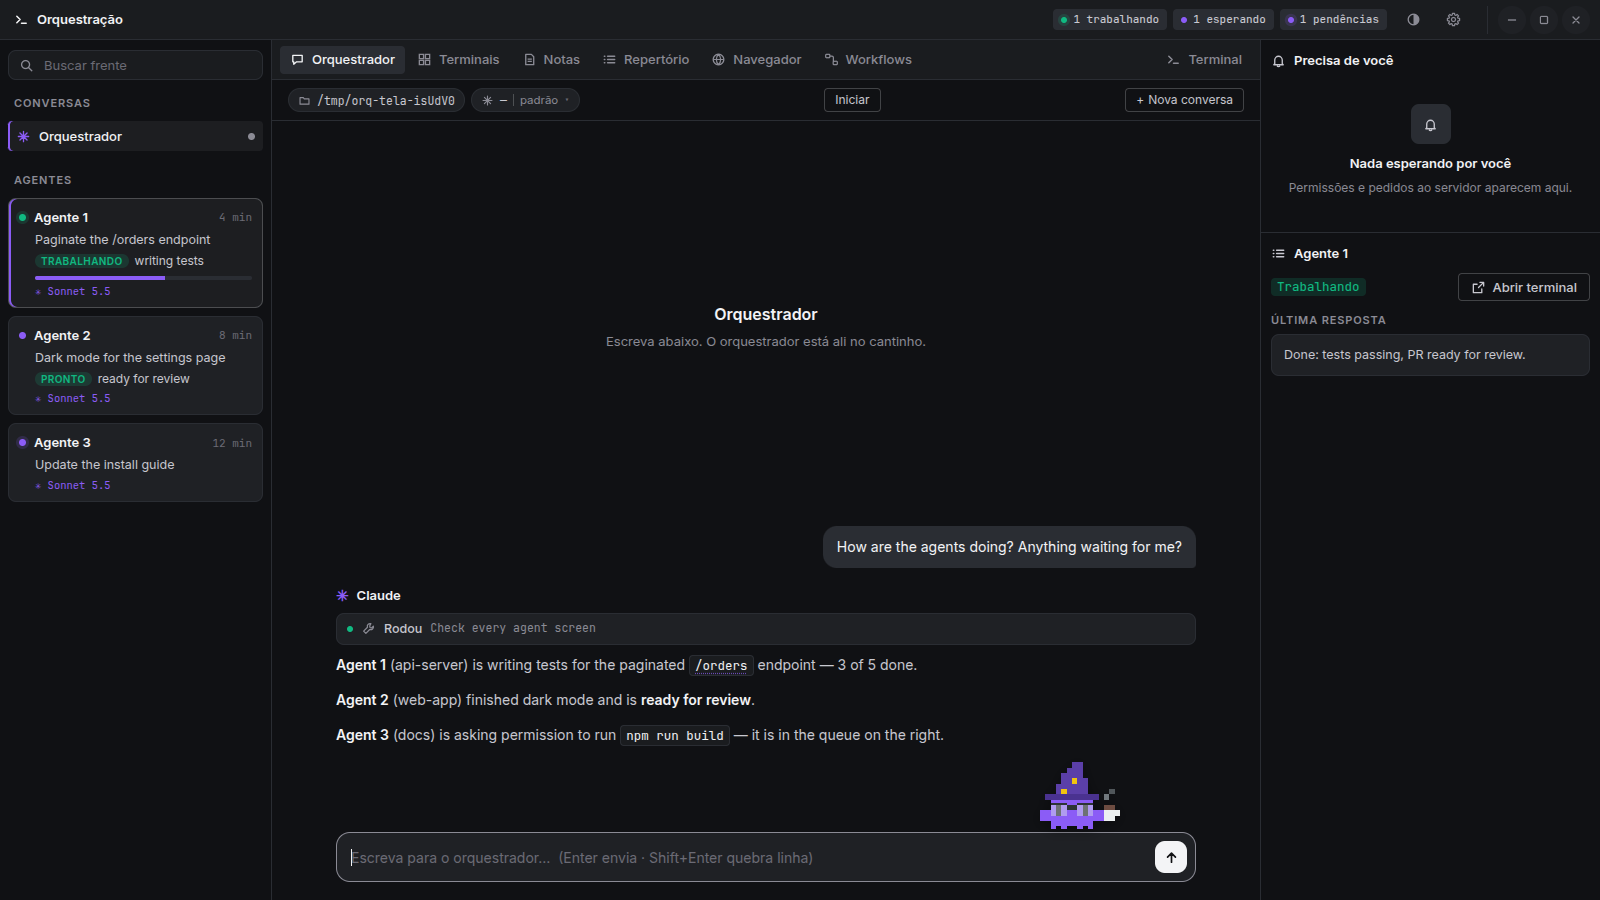
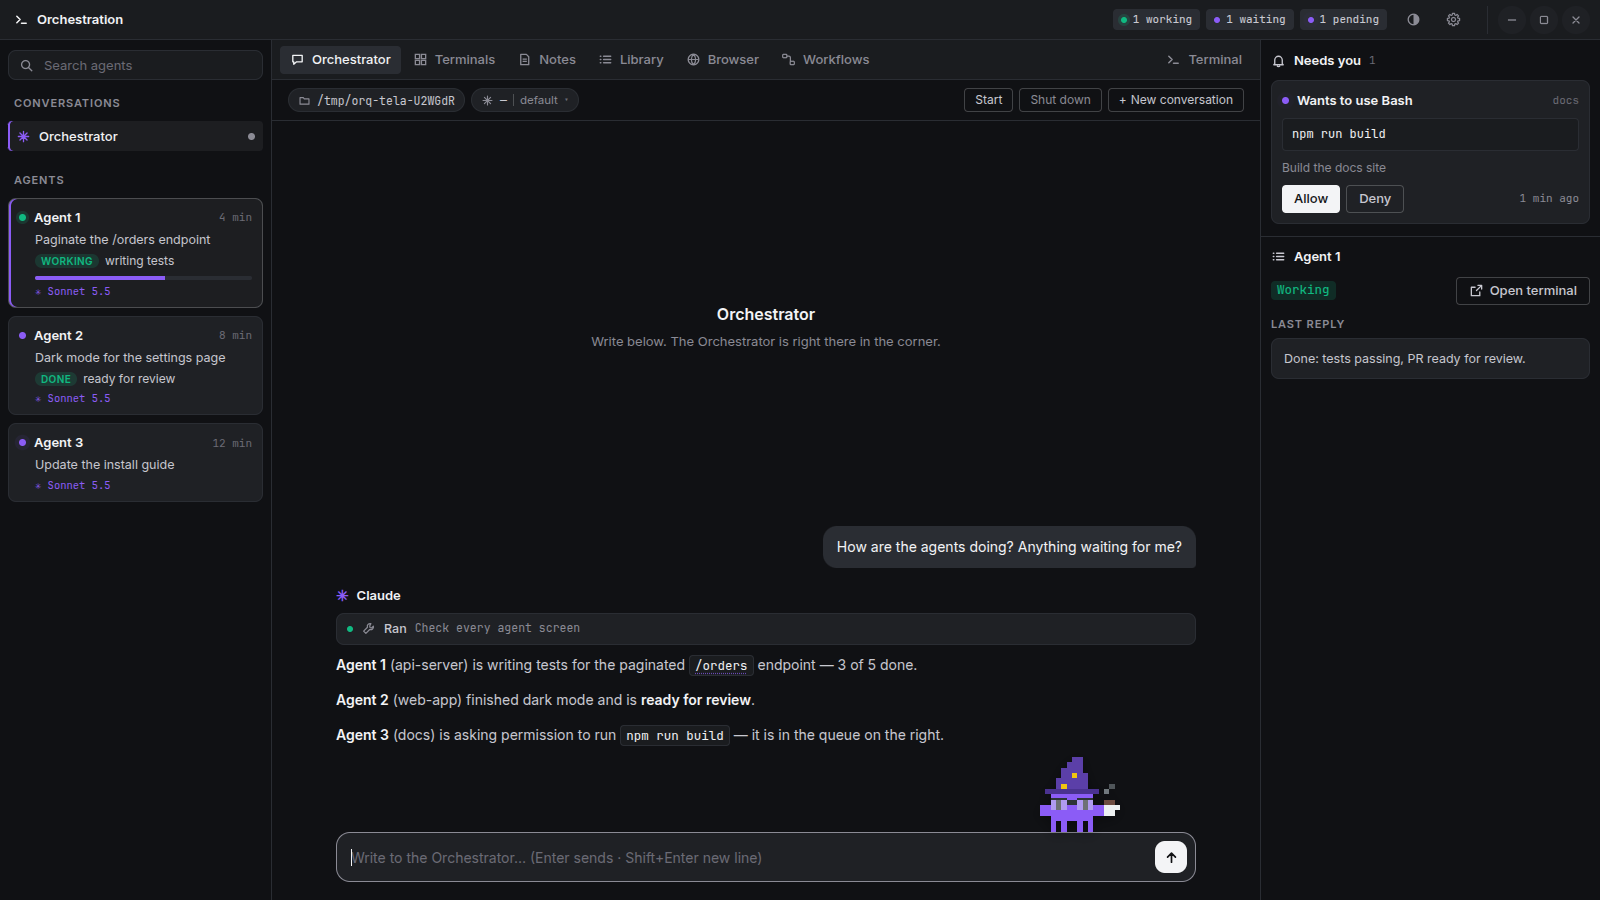
README: full tour of every tab with English screenshots; configuration guide documents the language option

diff --git a/README.md b/README.md
@@ -10,77 +10,141 @@ automate your machine with visual workflows — and meet the little pixel helper
 ![Electron](https://img.shields.io/badge/Electron-45-47848F?logo=electron&logoColor=white)
 ![Platform](https://img.shields.io/badge/platform-Linux-FCC624?logo=linux&logoColor=black)
 ![Claude Code](https://img.shields.io/badge/built%20for-Claude%20Code-D97757)
+![Languages](https://img.shields.io/badge/UI-English%20%7C%20Portugu%C3%AAs-3b82f6)
 ![License](https://img.shields.io/badge/license-MIT-22a06b)
-![Status](https://img.shields.io/badge/status-daily--driver%20prototype-8b5cf6)
 
-<img src="docs/images/conversation.png" alt="The orchestrator conversation, with agents on the left and the pixel helper in the corner" width="900">
+<img src="docs/images/conversation.png" alt="The orchestrator conversation, with agents on the left, the queue on the right and the pixel helper in the corner" width="900">
+
+[Why](#why) · [Tour](#a-tour-of-the-app) · [Getting started](#getting-started) · [Configuration](#configuration) · [Project structure](#project-structure) · [Tests](#tests)
 
 </div>
 
-> [!NOTE]
-> The interface is in **Portuguese** for now (it is used daily by a Portuguese-speaking team).
-> The code, the configuration keys and the file names follow the same language. Contributions
-> towards i18n are welcome.
-
 ## Why
 
-Running several [Claude Code](https://claude.com/claude-code) agents in parallel quickly turns into
-a wall of terminals. Orquestrador keeps the agents exactly where they already work — `tmux` sessions,
-ideally inside devcontainers — and puts a calm shell on top: one place to talk to the orchestrator,
-see who is doing what, and act on whatever is waiting for you. Closing the app never stops an agent.
+Running several [Claude Code](https://claude.com/claude-code) agents in parallel quickly turns into a wall
+of terminals. Orquestrador keeps the agents exactly where they already work — `tmux` sessions, ideally
+inside devcontainers — and puts a calm shell on top: one place to talk to the orchestrator, see who is
+doing what, and act on whatever is waiting for you. Closing the app never stops an agent.
 
-## Features
+The app speaks **English and Portuguese** — switch in ⚙ Settings → *App language*.
 
-| | |
-|---|---|
-| 💬 **Orchestrator chat** | Claude runs headless (`stream-json`, the Agent SDK protocol): bubbles, Markdown, collapsible tool calls, question cards, Allow/Deny for permissions, `/command` autocomplete, model and effort switcher. A **Start** button opens a round; **Shut down** closes it safely. |
-| 🧭 **Agents at a glance** | Every agent with its state (working, waiting, asking permission), current task, progress and model. A queue gathers permissions and requests in one place. |
-| 🖥 **Terminals** | Up to 4 in a grid, including attached to an agent's own `tmux` session. |
-| 📝 **Notes** | Notion-style Markdown editor (blocks, `/` menu, tasks, tables) over the folders you choose; autosaves and keeps versions. |
-| 🧰 **Skill library** | Finds the skills, commands, sub-agents and prompts you created across Claude Code, Codex, Gemini CLI, OpenCode, Windsurf and Cursor. `//name` in the chat uses any of them. |
-| 🌐 **Browser** | Up to 4 side-by-side windows, each as Chrome, Firefox, Edge or a phone (iPhone, Android). The orchestrator drives the same windows through `orq-nav` (open, read, click, type, screenshot) while you watch. |
-| ⚡ **Workflows** | n8n-style visual automations — see below. |
-| 👾 **Desktop helper** | The orchestrator as a pixel pet — see below. |
-| 🎨 **Looks** | Light and dark themes, accent color of your choice. |
+## A tour of the app
+
+The window has three columns: **conversations and agents** on the left, the **current tab** in the
+middle, and **Needs you** (the queue) plus the selected agent's details on the right.
+
+### 💬 Orchestrator
+
+The conversation with the orchestrator — Claude running headless (`stream-json`, the Agent SDK
+protocol), so there is no terminal to babysit.
+
+- Markdown answers, collapsible tool calls (*Ran …*, *Read …*), question cards with clickable options,
+  **Allow / Deny** on permission requests, `/command` autocomplete.
+- Model and effort switcher, context and usage meters (5-hour and 7-day windows) in the top bar.
+- **Start** sends your round-opening command (e.g. a skill of yours); **Shut down** ends the round safely.
+- Paste screenshots straight into the chat; `//skill` uses anything from the Library; `@note:` and
+  `@workflow:` attach a note or a workflow; code blocks have *Copy* and *▶ Terminal*.
+- **New conversation** opens side conversations next to the orchestrator.
+
+### 🧭 Agents and *Needs you*
+
+Every agent appears in the left column with its state (working, waiting for you, asking permission),
+its current task, a progress bar and its model. Click one to see its last reply and timeline on the
+right, or open its terminal. **Needs you** gathers every permission request and pending question from
+all agents into one queue with buttons.
+
+### 🖥 Terminals
+
+Up to four terminals in a grid, including ones attached to an agent's own `tmux` session — plus a spare
+shell in the **Terminal** tab on the right.
+
+### 📝 Notes
+
+<img src="docs/images/notes.png" alt="Notes: a Notion-style Markdown editor" width="900">
+
+A Notion-style Markdown editor over the folders you choose: blocks, `/` menu, checklists, tables,
+callouts, images. It autosaves and keeps every previous version.
+
+### 📚 Library
+
+<img src="docs/images/library.png" alt="Library: skills, commands and sub-agents found across AI tools" width="900">
+
+Finds what you created in each AI tool — skills, commands, sub-agents, prompts and workflows from Claude
+Code, Codex, Gemini CLI, OpenCode, Windsurf and Cursor — and lets you add your own shortcuts (optionally
+bound to <kbd>Ctrl</kbd>+<kbd>Alt</kbd>+<kbd>1…9</kbd>). Type `//name` in any conversation to use one;
+skills from other tools are sent with their instructions so any model can follow them.
+
+### 🌐 Browser
+
+<img src="docs/images/browser.png" alt="Browser: two windows side by side, desktop Chrome and an iPhone" width="900">
+
+Up to four windows side by side, each presenting itself as Chrome, Firefox, Edge or a phone (iPhone,
+Android — with the real phone viewport). The orchestrator drives the **same** windows through
+`orq-nav` — open, read, list elements, click, type, take screenshots — and a badge shows, live, what it
+is doing. Windows come back when you reopen the app.
 
 ### ⚡ Workflows
 
 <img src="docs/images/workflow-editor.png" alt="Workflow editor: a folder trigger feeding a command, Claude, and file and notification steps" width="900">
 
-Draw automations as connected steps. The output of one step is the input of the next (`{{entrada}}`).
+n8n-style automations for your machine. The home screen lists **Workflows**, **Credentials** and
+**Runs**; opening a workflow shows a full-screen canvas.
 
-- **Triggers:** a clock (every N minutes, or daily at a time, weekdays only if you want), a manual button,
-  or **a new file in a folder** (e.g. `*.pdf` in `~/Downloads`).
-- **Steps:** send a message to the orchestrator (in the background, never as if you typed it), ask a
+- **Triggers:** a clock (every N minutes, or daily at a time, weekdays only if you want), a manual
+  button, or **a new file in a folder** (e.g. `*.pdf` in `~/Downloads`).
+- **Steps:** send a message to the orchestrator (in the background — never as if you typed it), ask a
   separate Claude (Sonnet, Haiku or Opus), run a shell command, read / move / copy / write files,
-  branch on a condition, show a desktop notification.
-- **Credentials by reference only:** the app stores *where* a secret lives (a Bitwarden item, a file,
-  an environment variable), never its value. It is read at run time, handed to the command as an
-  environment variable and masked as `••••` in any saved output.
+  branch on a condition, show a desktop notification. The output of one step is the input of the next
+  (`{{entrada}}`); `{{arquivo}}` and `{{nome_arquivo}}` refer to the file that fired the workflow.
+- **Canvas like n8n / Maestri:** middle-drag to pan, <kbd>Ctrl</kbd>+wheel to zoom, rubber-band
+  selection, right-click menus, <kbd>Ctrl</kbd>+<kbd>A</kbd> / <kbd>Ctrl</kbd>+<kbd>D</kbd> /
+  <kbd>Delete</kbd>, double-click a step to edit it.
 - **Safe with your files:** file steps never overwrite — an existing name gets `-2`, `-3`…
-- **Canvas like n8n / Maestri:** middle-drag to pan, Ctrl+wheel to zoom, rubber-band selection,
-  right-click menus, Ctrl+A / Ctrl+D / Delete, double-click a step to edit it.
-- Every run is kept with each step's output; mention a workflow in the chat with `@workflow:name`.
+- Every run is kept with each step's output.
 
-<img src="docs/images/workflows-list.png" alt="Workflows, Credentials and Executions lists" width="900">
+<table>
+  <tr>
+    <td><img src="docs/images/workflows-list.png" alt="The list of workflows with on/off switches"></td>
+    <td><img src="docs/images/workflow-step.png" alt="Editing a step: Ask Claude"></td>
+  </tr>
+  <tr>
+    <td align="center"><sub>Workflows, credentials and runs</sub></td>
+    <td align="center"><sub>Double-click a step to edit it</sub></td>
+  </tr>
+</table>
+
+**Credentials by reference only.** The app stores *where* a secret lives — a Bitwarden item, a file or
+an environment variable — never its value. It is read at run time, handed to the command as an
+environment variable and masked as `••••` in any saved output. *Test* only tells you how many
+characters it read.
+
+<img src="docs/images/credentials.png" alt="A credential: only the reference is stored" width="900">
 
 ### 👾 The desktop helper
 
 <img src="docs/images/wardrobe.png" alt="The wardrobe: 30 items and 8 colors" width="900">
 
-The orchestrator in person: a pixel pet that thinks, types, gives orders to the agents, naps when you
-are idle, dances, follows your mouse with its eyes and can be thrown around. It stands on top of
-the things on screen (the input box, attachments, agent cards).
+The orchestrator in person: a pixel pet that thinks, types, gives orders to the agents, naps when you are
+idle, dances, follows your mouse with its eyes and can be thrown around. It stands on top of the things on
+screen (the input box, attachments, agent cards).
 
 - **Leaves the app and walks your desktop** (a transparent X11 window, so it can move freely even on
-  Wayland). It lives on every workspace and, when you switch, walks in from the side you came from.
-- **Comes to tell you** when something new needs you and the app is not focused — after checking
-  again that it is still pending.
-- **Call it from anywhere** with <kbd>Ctrl</kbd>+<kbd>Alt</kbd>+<kbd>Space</kbd> (`orq-pet`): chat
-  right there, or **📷 crop a piece of your screen** and ask about it. Answers land in an "Ajudante"
-  conversation in the app.
-- **Wardrobe:** 30 items across 6 slots (hats, glasses, moustaches, ties, capes, a coffee mug…) and
-  8 colors.
+  Wayland). It lives on every workspace, stays out of the overview and Alt+Tab, and when you switch
+  workspaces it walks in from the side you came from — only on the monitor that actually switched.
+- **Brings you what needs you.** When something new is pending and the app is not focused, it walks in
+  with the question and its options (or the permission, with *Allow / Deny*) and you answer right there.
+- **Call it from anywhere** with <kbd>Ctrl</kbd>+<kbd>Alt</kbd>+<kbd>Space</kbd> (`orq-pet`): chat right
+  there, or **📷 crop a piece of your screen** and ask about it.
+- **Wardrobe:** 30 items across 6 slots — hats, glasses, moustaches, ties, capes, a coffee mug… — and 8
+  colors. Right-click the pet to open it.
+
+### ⚙ Settings
+
+<img src="docs/images/settings.png" alt="Settings: theme, accent color, language, notifications" width="900">
+
+Theme, accent color, **language (English / Português)**, notifications, the Start / Shut down commands,
+browser control, project folders, notes folders and environment variables — all from the gear menu,
+applied immediately.
 
 ## Getting started
 
@@ -98,20 +162,21 @@ Optional command-line helpers live in `app/bin/` — link them somewhere on your
 
 | Command | What it does |
 |---|---|
-| `orq-nav` | Lets the orchestrator (or you) drive the app's browser windows: `orq-nav abrir <url>`, `texto`, `elementos`, `clicar`, `digitar`, `print`… |
-| `orq-pet` | Calls the desktop helper: `orq-pet chamar`, `print`, `passear`, `voltar`. Bind it to a key (the wardrobe can create the GNOME shortcut for you). |
+| `orq-nav` | Drives the app's browser windows: `orq-nav abrir <url>`, `texto`, `elementos`, `clicar`, `digitar`, `print`… |
+| `orq-pet` | Calls the desktop helper: `orq-pet chamar`, `print`, `passear`, `voltar`. Bind it to a key — the wardrobe can create the GNOME shortcut for you. |
 
 ## Configuration
 
-Everything is optional and lives in `~/.config/orq-app/config.json`. Start from
-[`examples/config.example.json`](examples/config.example.json); every key is explained in
-[`examples/CONFIGURATION.md`](examples/CONFIGURATION.md).
+Everything is optional and lives in `~/.config/orq-app/config.json` (most of it is also in the gear
+menu). Start from [`examples/config.example.json`](examples/config.example.json); every key is explained
+in [`examples/CONFIGURATION.md`](examples/CONFIGURATION.md).
 
 | Key | Purpose |
 |---|---|
+| `idioma` | `"en"` or `"pt-BR"` |
 | `raizProjetos`, `niveis` | Where your projects are: `<root>/<project>` or `<root>/<group>/<project>` |
-| `pastasNotas` | Folders the notes editor opens: `[{"nome": "…", "caminho": "~/…"}]` |
-| `comandoInicial`, `comandoDesligar` | Commands sent by the **Start** and **Shut down** buttons (e.g. your own skills) |
+| `pastasNotas` | Folders the notes editor opens |
+| `comandoInicial`, `comandoDesligar` | Commands sent by the **Start** and **Shut down** buttons |
 | `linhaTarefa`, `comandoOrdem` | Regular expressions that tell the app what each agent is working on |
 | `ambiente` | Extra environment variables for the app's conversations and terminals |
 
@@ -119,11 +184,11 @@ Everything is optional and lives in `~/.config/orq-app/config.json`. Start from
 
 [`hooks/orq-evento.sh`](hooks/orq-evento.sh) is a Claude Code hook that records an agent's events in
 `<project>/.orq/eventos/` and, while the app is open, routes permission prompts to the app's buttons
-(with the app closed, the prompt stays in the terminal as usual). To enable it in a project, copy it
-to `<project>/.orq/bin/` and register `SessionStart`, `UserPromptSubmit`, `PostToolUse`,
-`Notification`, `Stop`, `SessionEnd` (timeout 10) and `PermissionRequest` (timeout 330) in the
-project's `.claude/settings.json` with the command `"$CLAUDE_PROJECT_DIR"/.orq/bin/orq-evento.sh`.
-Add `.orq/` to `.gitignore`.
+(with the app closed, the prompt stays in the terminal as usual). To enable it in a project, copy it to
+`<project>/.orq/bin/` and register `SessionStart`, `UserPromptSubmit`, `PostToolUse`, `Notification`,
+`Stop`, `SessionEnd` (timeout 10) and `PermissionRequest` (timeout 330) in the project's
+`.claude/settings.json` with the command `"$CLAUDE_PROJECT_DIR"/.orq/bin/orq-evento.sh`. Add `.orq/` to
+`.gitignore`.
 
 ## Project structure
 
@@ -136,7 +201,9 @@ orquestrador/
 │   ├── workflows.js      workflow engine, clock, folder watcher, credentials
 │   ├── navegador.js      browser windows and the orq-nav control server
 │   ├── ajudante.js       bridge to the desktop helper process
+│   ├── i18n.js           language for the main process (notifications)
 │   ├── renderer/         the app's UI (HTML, CSS, one script per tab)
+│   │   └── i18n/         translation catalog (Portuguese → English)
 │   ├── pet/              the desktop helper's own window (separate X11 process)
 │   ├── bin/              orq-nav and orq-pet command-line helpers
 │   ├── icons/
@@ -147,6 +214,9 @@ orquestrador/
 └── scripts/              repository hygiene checks
 ```
 
+The source is written in Portuguese (identifiers, comments, file names); the interface is translated at
+runtime from `app/renderer/i18n/en.json`, so adding a language means adding one catalog.
+
 ## Tests
 
 ```bash
@@ -156,18 +226,18 @@ npm test -- workflows     # one area only (each test file declares its area)
 npm test -- --so-unidade  # unit tests only, without opening the app
 ```
 
-End-to-end tests launch the real app hidden, with a throwaway home directory, and talk to it through
-the DevTools protocol — your real files are never touched. Every bug that was fixed gets a regression
-test, listed in [`app/tests/REGRESSOES.md`](app/tests/REGRESSOES.md).
+End-to-end tests launch the real app hidden, with a throwaway home directory, and talk to it through the
+DevTools protocol — your real files are never touched. Every bug that was fixed gets a regression test,
+listed in [`app/tests/REGRESSOES.md`](app/tests/REGRESSOES.md).
 
 ## Credits
 
-- Colors inspired by the public brand guide of [Alethe](https://github.com/Kc1t/alethe-agents)
-  (color values only; no code).
+- Colors inspired by the public brand guide of [Alethe](https://github.com/Kc1t/alethe-agents) (color
+  values only; no code).
 - Built with Electron, xterm.js, node-pty, marked, Tiptap and ProseMirror (MIT — the notes editor is
   bundled in `app/renderer/editor.bundle.js`), DOMPurify (Apache 2.0 / MPL 2.0) and the Inter font (OFL).
-- Claude and Claude Code are trademarks of Anthropic. This project is not affiliated with Anthropic;
-  the pixel helper is an original drawing.
+- Claude and Claude Code are trademarks of Anthropic. This project is not affiliated with Anthropic; the
+  pixel helper is an original drawing.
 
 ## License
 

diff --git a/examples/CONFIGURATION.md b/examples/CONFIGURATION.md
@@ -10,6 +10,7 @@ inside the app. A starting point: [`config.example.json`](config.example.json).
 
 | Key | Default | Meaning |
 |---|---|---|
+| `idioma` | `"pt-BR"` | Interface language: `"en"` or `"pt-BR"` |
 | `tema` | `"dark"` | `"dark"` or `"light"` |
 | `destaque` | `#8b5cf6` | Accent color, as `#rrggbb` |
 | `mostrarBichinho` | `true` | Show the pixel helper inside the app |
